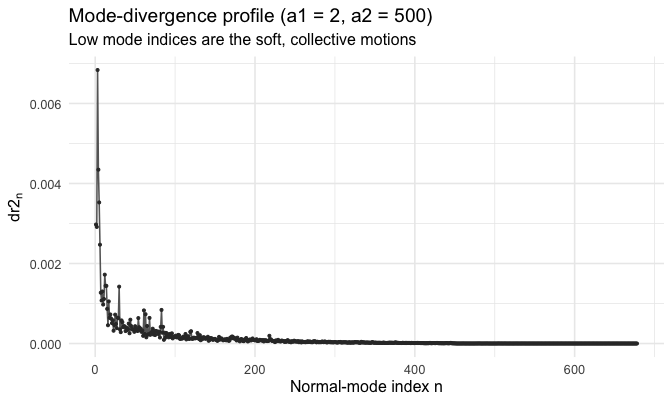
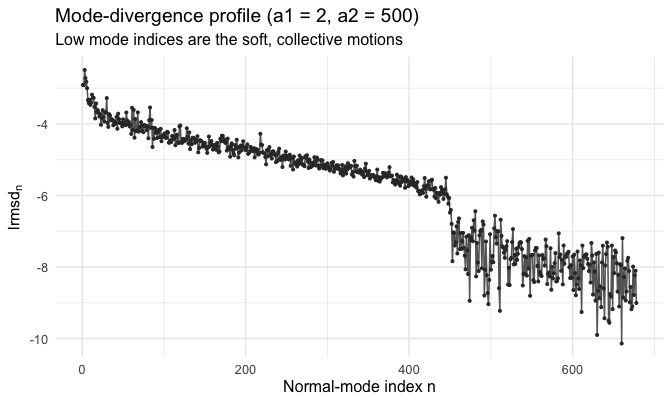
Mode nested-models fn + dr2n vignette parity with intro
New calculate_lrmsd_n_nested_models(spm_pp, a1, a2) in R/model.R: mode
counterpart of calculate_lrmsd_i_nested_models. Returns n + lrmsd_n_mm/ms/
ma/msa, with NO pdb_site (modes are not anchored to residues). The pure,
axis-agnostic calculate_msa_decomposition is reused unchanged on the four
lrmsd_n vectors. Package globals gain lrmsd_n_* and n; new test in
test-msa-mode.R pins the recipe via an independent route. Suite 83/0F,
check() at v0.1 baseline.

dr2n-analysis vignette restructured to mirror the intro flow:
profile -> nested models + decomposition (new) -> sweeps (moved after the
decomposition). y axes now show lrmsd_n = log(sqrt(dr2_n)) everywhere
(computed inline; calculate_dr2_n_msa unchanged); all plots show all modes
(removed the n<=40 sweep filter). Removed the "Consistency with the site
form" section. Four-model plot uses the site model colours; mode
decomposition uses free_y panels (so the small stab/act components are
visible) with the paper component colours.

User reviewed dev/preview/dr2n-analysis.html and approved.

diff --git a/dev/LOG.md b/dev/LOG.md
@@ -7,6 +7,25 @@ those two don't keep.
 
 One short entry per working session.
 
+### 2026-06-19 — Mode nested-models fn + dr2n vignette parity with intro
+
+Brought the `dr2n-analysis` vignette to parity with the intro vignette's site §3.
+- New `calculate_lrmsd_n_nested_models(spm_pp, a1, a2)` in `R/model.R` — mode
+  counterpart of `calculate_lrmsd_i_nested_models`: returns `n` + `lrmsd_n_mm/ms/
+  ma/msa`, NO `pdb_site` (modes aren't residue-anchored). The pure
+  `calculate_msa_decomposition` is reused unchanged on the four `lrmsd_n` vectors
+  (the payoff of the axis-agnostic refactor). Globals get `lrmsd_n_*` + `n`. New
+  test in `test-msa-mode.R` pins the recipe (independent route). Suite 83/0F,
+  check() at v0.1 baseline.
+- Vignette restructured to mirror the intro flow: profile → **nested models +
+  decomposition (new)** → sweeps (moved after decomposition). y axes show
+  `lrmsd_n = log(sqrt(dr2_n))` everywhere (computed inline; `calculate_dr2_n_msa`
+  unchanged); all plots show ALL modes (removed the `n<=40` sweep filter).
+  Removed the "Consistency with the site form" section (per user). Four-model plot
+  uses the site model colours; mode decomposition plot uses **free_y** panels
+  (user: shared scale hid the small stab/act components) + paper component colours.
+- User reviewed `dev/preview/dr2n-analysis.html` and approved.
+
 ### 2026-06-19 — REFACTOR: pure-vector decomposition + nested-models fn + `_i_` rename
 
 Triggered by a vignette request (decompose the profile at fixed `(a1,a2)=(2,500)`).
